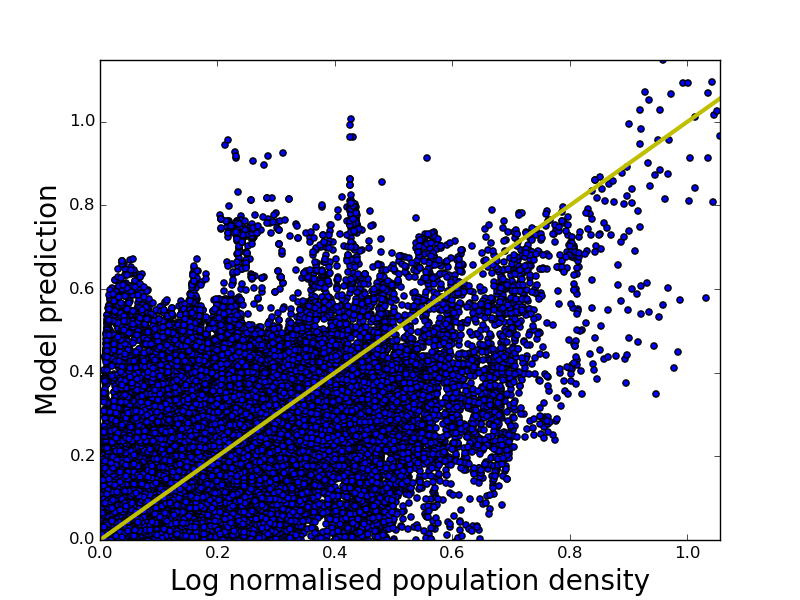
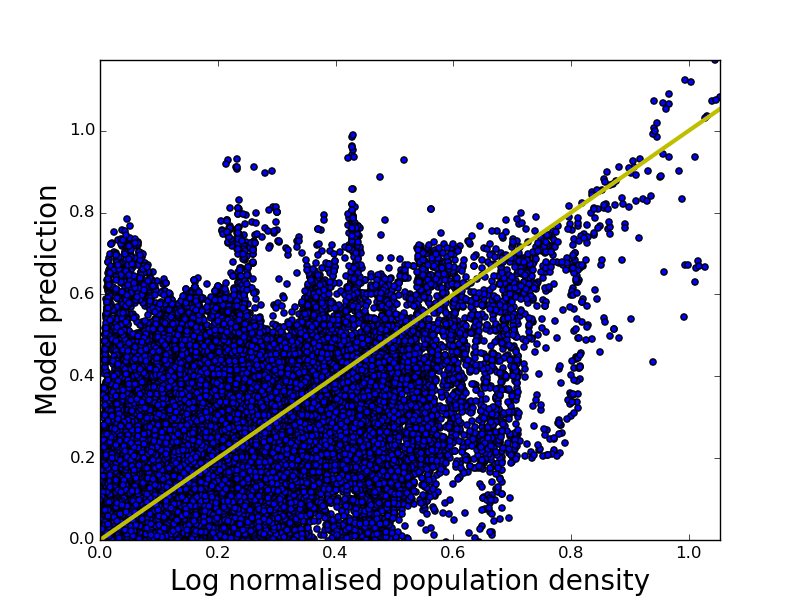
iterating

diff --git a/cnn_copy.py b/cnn_copy.py
@@ -12,7 +12,7 @@ from keras import callbacks
 from keras.layers import advanced_activations
 from keras.optimizers import Adam
 
-obs_size = 64
+obs_size = 64 
 
 print('Reading data')
 
@@ -24,13 +24,13 @@ f = h5py.File('keras_data/db_Oregon_y_0.hdf5', 'r')
 y_train = np.array(f['data'])
 f.close()
 
-for i in range(1,30):
-    f = h5py.File('keras_data/db_Oregon_X_%d.hdf5' % i, 'r')
-    X_train = np.vstack((X_train, np.array(f['data'])))
-    f.close()
-    f = h5py.File('keras_data/db_Oregon_y_%d.hdf5' % i, 'r')
-    y_train = np.hstack((y_train, f['data']))
-    f.close()
+for i in range(1,35):
+	f = h5py.File('keras_data/db_Oregon_X_%d.hdf5' % i, 'r')
+	X_train = np.vstack((X_train, np.array(f['data'])))
+	f.close()
+	f = h5py.File('keras_data/db_Oregon_y_%d.hdf5' % i, 'r')
+	y_train = np.hstack((y_train, f['data']))
+	f.close()
 
 ## Initialising with value 0
 f = h5py.File('keras_data/db_Washington_X_0.hdf5', 'r')
@@ -40,13 +40,13 @@ f = h5py.File('keras_data/db_Washington_y_0.hdf5', 'r')
 y_test = np.array(f['data'])
 f.close()
 
-for i in range(1,25):
-    f = h5py.File('keras_data/db_Washington_X_%d.hdf5' % i, 'r')
-    X_test = np.vstack((X_test, np.array(f['data'])))
-    f.close()
-    f = h5py.File('keras_data/db_Washington_y_%d.hdf5' % i, 'r')
-    y_test = np.hstack((y_test, f['data']))
-    f.close()
+for i in range(1,26):
+	f = h5py.File('keras_data/db_Washington_X_%d.hdf5' % i, 'r')
+	X_test = np.vstack((X_test, np.array(f['data'])))
+	f.close()
+	f = h5py.File('keras_data/db_Washington_y_%d.hdf5' % i, 'r')
+	y_test = np.hstack((y_test, f['data']))
+	f.close()
 
 # mean normalisation
 mean_value = np.mean(X_train)
@@ -83,8 +83,8 @@ model = Sequential()
 
 # first convolutional pair
 model.add(Convolution2D(32, 5, 5, 
-            border_mode='valid',
-            input_shape = (7, obs_size, obs_size)))
+			border_mode='valid',
+			input_shape = (7, obs_size, obs_size)))
 model.add(Activation('relu'))
 model.add(Convolution2D(32, 5, 5))
 model.add(MaxPooling2D(pool_size=(2, 2)))
@@ -126,18 +126,18 @@ model.load_weights('model_weights.h5')
 print('Model loaded.')
 
 # setting sgd optimizer parameters
-adam = Adam(lr = 1e-5, beta_1 = 0.9, beta_2 = 0.999, epsilon = 1e-8)
+adam = Adam(lr = 1e-6, beta_1 = 0.9, beta_2 = 0.999, epsilon = 1e-8)
 model.compile(loss='mean_squared_error', optimizer=adam)
 
 earlystop = callbacks.EarlyStopping(monitor='val_loss', patience = 3, 
-    verbose=1, mode='min')
+	verbose=1, mode='min')
 checkpoint = callbacks.ModelCheckpoint('/tmp/weights.hdf5', 
-    monitor='val_loss', verbose=1, save_best_only=True, mode='auto')
+	monitor='val_loss', verbose=1, save_best_only=True, mode='auto')
 history = callbacks.History()
 
 print("Starting training")
 model.fit(X_train, y_train, batch_size=128, validation_split=0.15, sample_weight=sample_weights,
-        show_accuracy=False, callbacks = [earlystop, checkpoint, history])
+		show_accuracy=False, callbacks = [earlystop, checkpoint, history])
 print("Evaluating")
 score = model.evaluate(X_test, y_test, batch_size=128)
 predicted = model.predict(X_test)  
@@ -173,4 +173,4 @@ print history.history
 # save as JSON
 json_string = model.to_json()
 # save model weights
-model.save_weights('model_weights.h5', overwrite=True)
+model.save_weights('model_weights_sml.h5', overwrite=True)

diff --git a/databaseConstructor.py b/databaseConstructor.py
@@ -96,13 +96,16 @@ def pointWithinPolygon(idx, points, polygons):
 def satelliteImageToDatabase(sat_folder_loc, state_name, year, channels):
 	data = []
 	count = 0
+	print 'Getting satellite image'
 	for extension in channels:
 		filename = sat_folder_loc + state_name + '_' + year + '_' + extension + '.tif'
 		satellite_gdal = gdal.Open(filename)
 		# getting data
 		if extension == 'B1':
+			print extension
 			ncols, nrows = satellite_gdal.RasterXSize, satellite_gdal.RasterYSize
 			rows_grid, cols_grid = np.meshgrid(range(0,ncols), range(0,nrows))
+			print rows_grid.shape
 			cols_grid, rows_grid = rows_grid.flatten(), cols_grid.flatten()
 			# getting a series of lat lon points for each pixel
 			location_series = [Point(pixelToCoordinates(
@@ -110,10 +113,12 @@ def satelliteImageToDatabase(sat_folder_loc, state_name, year, channels):
 				for (col, row) in zip(cols_grid, rows_grid)]
 			# pixel data
 			band = satellite_gdal.GetRasterBand(1)
+			print band
 			array = band.ReadAsArray()
 			band_series = [array[row][col] for (col, row) in zip(cols_grid, rows_grid)]
 			data.append(band_series)
 		else:
+			print extension
 			band = satellite_gdal.GetRasterBand(1)
 			array = band.ReadAsArray()
 			band_series = np.array([array[row][col] for (col, row) in zip(cols_grid, rows_grid)])
@@ -301,12 +306,12 @@ def databaseConstruction(census_folder_loc, census_shapefile, urban_folder_loc,
 	db_image = satUrbanDatabase(db_urban, db_image)
 	urban_sample_idx, knn_data = sampling(sample_rate, obs_size, satellite_gdal, db_image)
 	cPickle.dump(knn_data, file('knn_X_data.save', 'wb'), protocol=cPickle.HIGHEST_PROTOCOL)
-	#db_shape = censusDatabase(census_folder_loc, census_shapefile)
-	#db_image = mergeCensusSatellite(db_shape, db_image)
-	#X, y = sampleGenerator(obs_size, db_image, channels, 
-	#					satellite_gdal, urban_sample_idx)
-	#saveFiles_y(y, file_size, save_folder_loc, state_name)
-	#saveFiles_X(X, file_size, save_folder_loc, state_name)
+	db_shape = censusDatabase(census_folder_loc, census_shapefile)
+	db_image = mergeCensusSatellite(db_shape, db_image)
+	X, y = sampleGenerator(obs_size, db_image, channels, 
+						satellite_gdal, urban_sample_idx)
+	saveFiles_y(y, file_size, save_folder_loc, state_name)
+	saveFiles_X(X, file_size, save_folder_loc, state_name)
 
 
 

diff --git a/do.py b/do.py
@@ -17,8 +17,8 @@ save_folder_loc = 'keras_data/'
 
 # a file size of 10 ~ 1mb
 file_size = 2048
-sample_rate = 0.25
-obs_size = 64
+sample_rate = 0.2
+obs_size = 64 
 
 databaseConstruction(census_folder_loc, census_shapefile, urban_folder_loc,
 		sat_folder_loc, save_folder_loc, state_name, state_code, year, channels,
